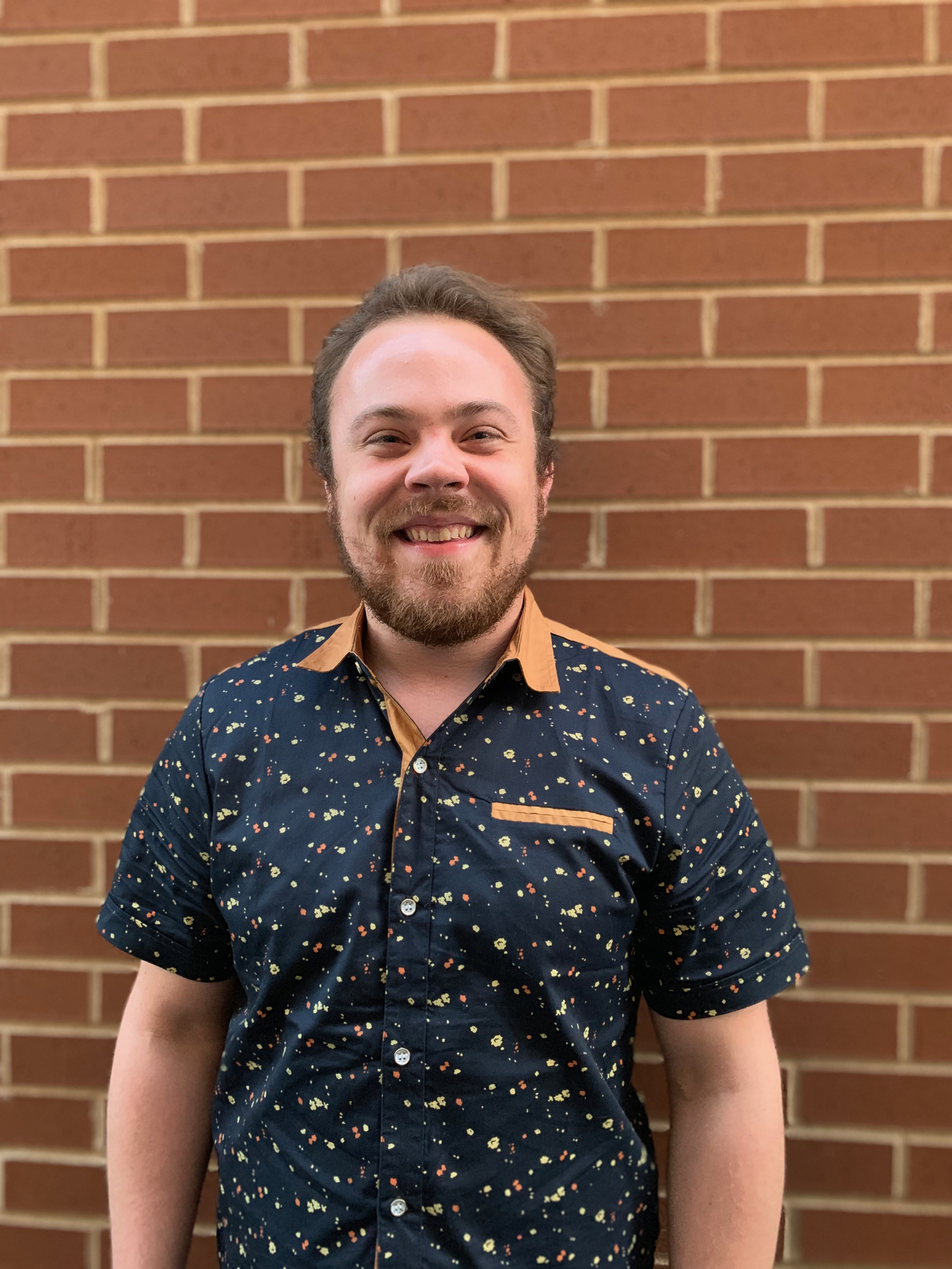
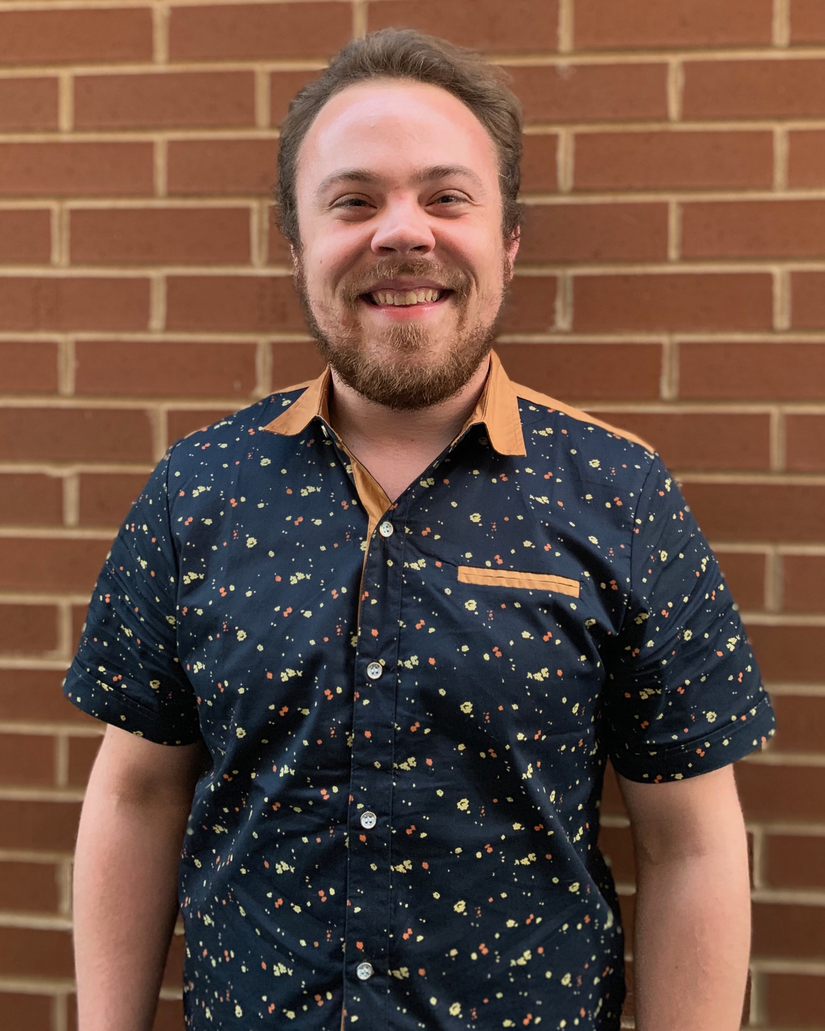
bio working, need to do media queries

diff --git a/src/components/AboutPage/index.js b/src/components/AboutPage/index.js
@@ -1,0 +1,48 @@
+import React from "react";
+import meImg from "../../assets/small/me_pic.jpg";
+
+const AboutPage = () => {
+  // return about and display img
+  return (
+    <div className="about-me-cont">
+        <div className="bio-cont justify-center">
+            <img src={meImg}
+            className="my-photo"
+            alt="Vincent smiling"
+            />
+            <div className="vincent-info-container flex-column">
+                <h3 className="info-name">Vincent Toon</h3>
+                <h4 className="info-job"> Full Stack Web Developer </h4>
+                <p className="info-text"> 
+                    Graduate from Washington University's Full Stack Web Development Bootcamp.
+                    As a developer, I have a passion for building applications from the ground up
+                    and learning new technologies to both improve my knowledge of web development and 
+                    boost the user's enjoyment of an application.
+                </p>
+                <br></br>
+
+                <p className="info-text">
+                    Before pursuing web development full time, I spent my early professional career 
+                    all over the service and beer industries. I have worked as a bar manager, brand representative,
+                     salesman and brewery assistant. These jobs have made me comfortable working in a fast paced environment 
+                     and have found that many of the skills I have learned have benefitted me in succeeding in the practice 
+                     and world of web development
+                </p>
+                <br></br>
+
+                <p className="info-text">
+                    When I am not online I enjoy walking my dog, playing music, playing video games, catching up with friends and 
+                    visiting breweries far and wide for great drinks and food.
+                </p>
+                <br></br>
+
+                <p className="info-text">
+                    Please reach out if you have any inquiries or questions.
+                </p>
+            </div>
+        </div>
+    </div>
+  );
+}
+
+export default AboutPage;

diff --git a/src/index.css b/src/index.css
@@ -409,6 +409,8 @@ a nav-link:hover {
 
 /* === START CUSTOM CSS === */
 
+/* start featured page css */
+
 .f-cont {
   width: 85%;
 }
@@ -462,6 +464,75 @@ a nav-link:hover {
   margin-top: 10px;
   margin-bottom: 20px;
 }
+
+/* end featured page css */
+
+/* start about page css */
+
+.about-me-cont {
+  margin: auto;
+  margin-top: 25px;
+  display: flex;
+  flex-direction: row;
+  flex: 1;
+  justify-content: center;
+  width: 85%;
+
+}
+
+.bio-cont {
+  display: flex;
+  flex-direction: row;
+  background-color: var(--bg-color);
+  max-width: 80%; 
+}
+
+.my-photo {
+  max-width: 40%;
+  max-height: 100%;
+  object-fit: cover;
+  object-position: center;
+  
+}
+
+.vincent-info-container {
+  width: 50%;
+  height: 100%;
+  margin-left: 2em;
+  text-align: left;
+}
+
+.info-name {
+  text-shadow: 1px 1px 1px var(--secondary);
+}
+
+.info-job {
+  color: var(--third);
+  text-shadow: 0.5 0.5 0.5 var(--black);
+}
+
+.info-name::after {
+  content: '';
+  display: block;
+  height: 1px;
+  width: 15em;
+  background: var(--fourth);
+  margin: 0.5rem 0;
+  opacity: 0.8;
+}
+
+.info-job::after {
+  content: '';
+  display: block;
+  height: 1px;
+  width: 10em;
+  background: var(--fourth);
+  margin: 0.5rem 0;
+  opacity: 0.8;
+}
+
+
+/* end about page css */
 
 /* === END CUSTOM CSS === */
 .page-title {
@@ -1323,6 +1394,24 @@ a nav-link:hover {
   .link-container {
     margin-bottom: 10px;
   }
+
+  .about-me-cont {
+    flex-direction: column;
+    justify-content: center;
+  }
+
+  .bio-cont {
+    display: flex;
+    flex-direction: column;
+    justify-content: flex-start;
+  }
+
+  .my-photo {
+    max-width: 250px;
+    max-height: 350px;
+    margin: auto
+  }
+
 }
 
 @media screen and (max-width: 575px) {
@@ -1396,6 +1485,19 @@ a nav-link:hover {
 
   .link-container {
     margin-bottom: 10px;
+  }
+
+  .about-me-cont {
+    text-align: left;
+  }
+
+  .my-photo {
+    display: none;
+  }
+
+  .vincent-info-container {
+    max-height: 30%;
+    max-width: ;
   }
 }
 

diff --git a/src/App.js b/src/App.js
@@ -1,6 +1,6 @@
 import React, { useState } from "react";
 import Header from "../src/components/Header";
-import About from "./components/About";
+import AboutPage from "./components/AboutPage";
 import Contact from "../src/components/Contact";
 import Portfolio from "../src/pages/Portfolio";
 import Resume from "../src/components/Resume";
@@ -13,7 +13,7 @@ const [currentTab, handleTabChange] = useState('about');
 // if statement to return current tab and display that pages information
 const displayTab = () => {
   if (currentTab === 'About') {
-    return <About />
+    return <AboutPage />
   }
   if (currentTab === 'Portfolio') {
     return <Portfolio />
@@ -24,7 +24,7 @@ const displayTab = () => {
   if (currentTab === 'Contact') {
     return <Contact />
   }
-  return <About />
+  return <AboutPage />
 }
 
   return (
